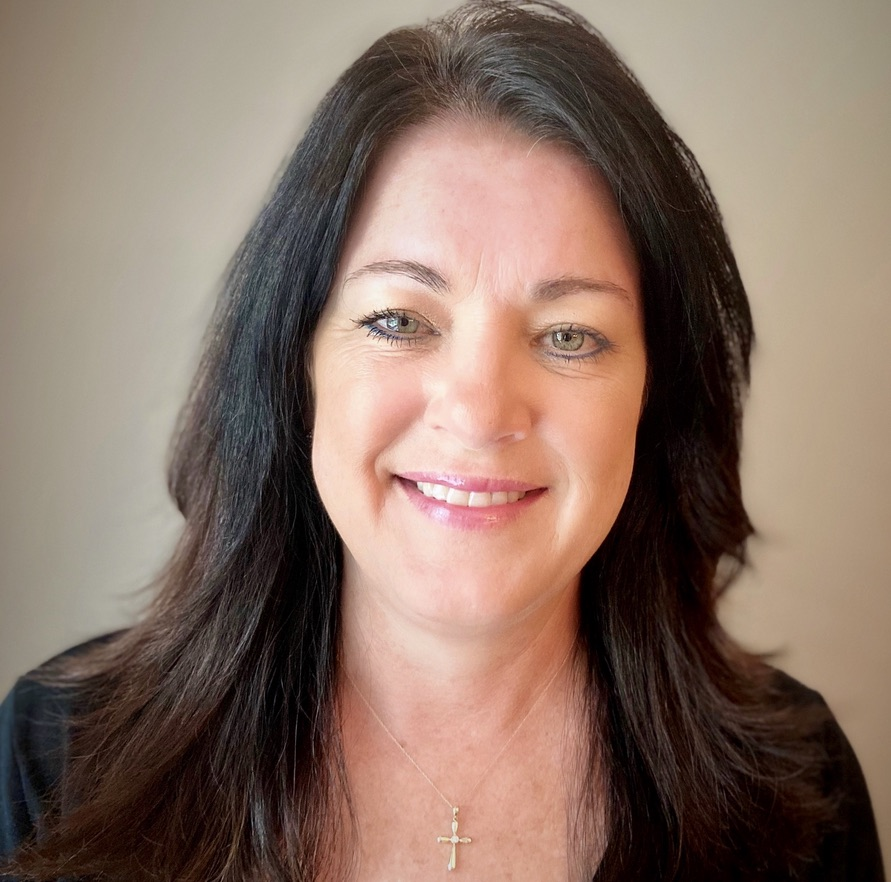
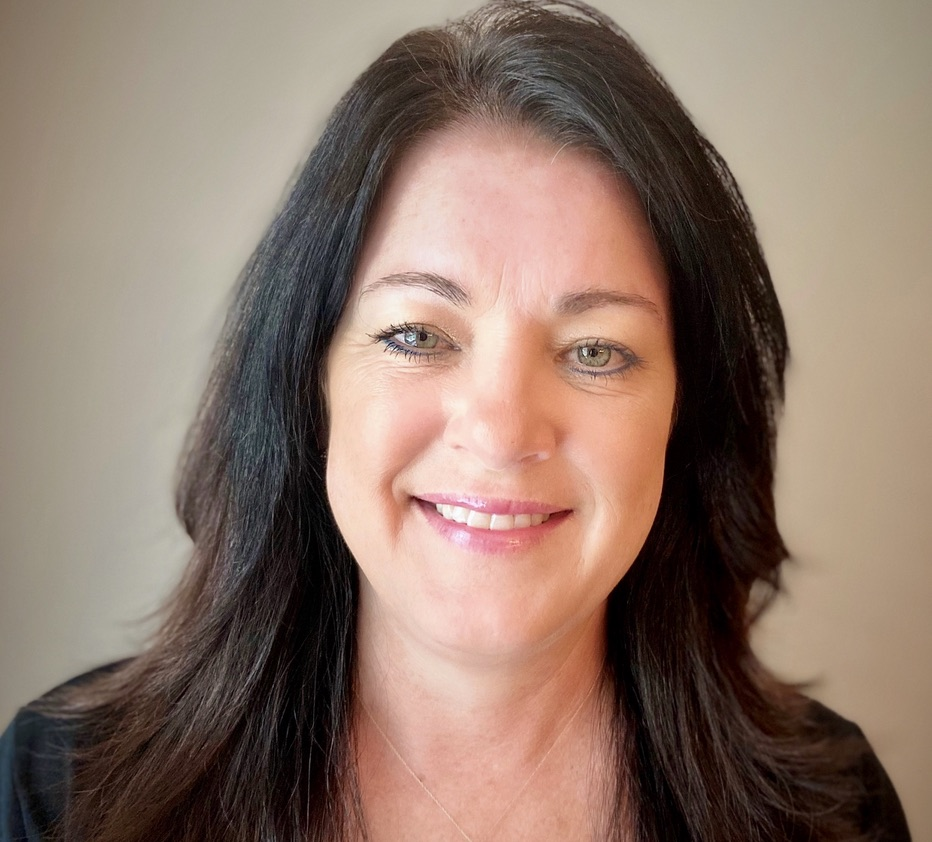
fixed Kristine aspect ratio

Changed region(s): [[0.0, 0.0, 1.0, 1.0]]

diff --git a/src/components/layout/UserCard.js b/src/components/layout/UserCard.js
@@ -1,5 +1,5 @@
 import React from 'react';
-import { Col, Row, CardDeck, Card, CardImg, CardBody, CardTitle, CardSubtitle, CardText, Button} from 'reactstrap';
+import { Col, Row, CardDeck, Card, CardImg, CardBody, CardTitle, CardSubtitle, CardText, Button } from 'reactstrap';
 import JimScottProfile from "../../images/profilepics/jim_scott_profile_pic.jpg"
 import KristineSappProfile from "../../images/profilepics/kristine_sapp_profile_pic.jpeg"
 
@@ -43,14 +43,14 @@ function UserCard() {
 
 
     return (
-            <Row>
+        <Row>
             {/* <CardDeck> */}
-            <Col sm="6">
+            <CardDeck>
                 <Card>
-                    <CardImg top width="100%" src={JimScottProfile} alt="Card image cap" className="ProfilePicture" />
+                    <CardImg top width="80%" src={JimScottProfile} alt="Card image cap" className="ProfilePicture" />
                     <CardBody>
                         <CardTitle><h2>Jim Scott</h2></CardTitle>
-                        <CardSubtitle><h3>CEO</h3></CardSubtitle>
+                        <CardSubtitle><h4>CEO</h4></CardSubtitle>
                         <p>Jim began his entrepreneurial career in 1982 with $300 in savings and has applied financial
                         leverage in business owned throughout my career to maintain my private company status. He's proud
                         of the fact that he's never had outside equity in any of them. He began my career by starting two
@@ -60,26 +60,25 @@ function UserCard() {
                         business venture and from that Inzone Inc. was born. Over a twenty year run, the company has built from
                         the ground up: Bubba Brands (sold to Newell Rubbermaid in 2014), and good2grow (sold to Kainos in 2018).
                         </p>
-                
+
                     </CardBody>
                 </Card>
-                </Col>
-                <Col sm="6">
+
                 <Card>
-                <CardImg top width="100%" src={KristineSappProfile} alt="Card image cap" className="ProfilePicture"/>
-                <CardBody>
-                    <CardTitle><h2>Kristine Sapp</h2></CardTitle>
-                    <CardSubtitle><h3>Administrative Director</h3></CardSubtitle>
+                    <CardImg top width="80%" src={KristineSappProfile} alt="Card image cap" className="ProfilePicture" />
+                    <CardBody>
+                        <CardTitle><h2>Kristine Sapp</h2></CardTitle>
+                        <CardSubtitle><h4>Administrative Director</h4></CardSubtitle>
                         <p>
-                        Kristine Sapp joined the In Zone team in 1997 as a Staff Accountant.  Over the years, her positions included
-                        Treasury, Finance Manager, and eventually working her way up to Controller.  Kristine has experience in a wide range of accounting
-                        functions including financial reporting, external auditing, M&A transactions as well as supporting C-Level executives.  Kristine
-                        received her BBA in Accounting from Coles College of Business at Kennesaw State University in 2013.
+                            Kristine Sapp joined the In Zone team in 1997 as a Staff Accountant.  Over the years, her positions included
+                            Treasury, Finance Manager, and eventually working her way up to Controller.  Kristine has experience in a wide range of accounting
+                            functions including financial reporting, external auditing, M&A transactions as well as supporting C-Level executives.  Kristine
+                            received her BBA in Accounting from Coles College of Business at Kennesaw State University in 2013.
                         </p>
-                </CardBody>
-            </Card>
-            </Col>
-            </Row>
+                    </CardBody>
+                </Card>
+            </CardDeck>
+        </Row>
     )
 }
 export default UserCard;

diff --git a/src/components/screens/TeamScreen.js b/src/components/screens/TeamScreen.js
@@ -8,7 +8,7 @@ function TeamScreen() {
       <Fragment>
         <Navbar />
         <Jumbotron>
-          <h1>Team</h1>
+          <h2>Team</h2>
           <br/>
           <Row>
               <UserCard />

diff --git a/src/App.css b/src/App.css
@@ -39,7 +39,11 @@
 
 .ProfilePicture {
 width: 100%;
-height: 660px;
+height: fit-content;
+}
+
+.Card {
+  width: 20%;
 }
 
 .nav-item {
